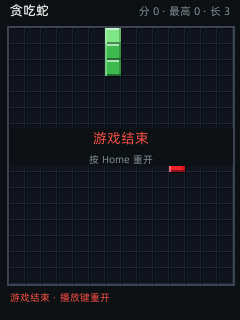
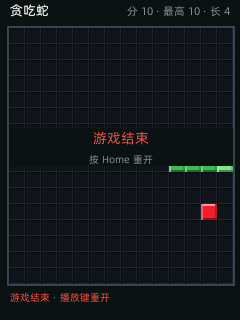
fix(tetris/snake): 无守护 buttonEvent 路径复测通过；e6keys so 实验存档
- 贪吃蛇 prev 左转后向上爬行、吃到食物（+10 分）复测截图
- 自写 so 实验（e6keys.c/make_minso.py）留档：手工 ARM ELF 388B 极简格式
  在 uClibc dlopen 上未触发 constructor（musl 静态 PIE 与 -fno-PIE 两变体均未过），
  下一步候选：gnu 工具链动态链接 / 手工 ELF 细修 / NetEase so 参照逆向

diff --git a/framework/examples/tetris/src/pages/index.vue b/framework/examples/tetris/src/pages/index.vue
@@ -214,6 +214,20 @@ export default {
     const hs = new UI.Storage('tetris_high');
     const self = this;
     hs.get('high', 0).then(function (v) { if (v > 0) self.high = v; });
+
+    /* M1：动态 import 触发框架 dlopen libs/libjsapi_e6keys*.so */
+    import('e6keys').then(function (m) {
+      console.warn('[tetris] e6keys module loaded!');
+    }).catch(function (e) {
+      console.warn('[tetris] e6keys import fail: ' + e);
+    });
+
+    /* M1 实验：动态 import 触发框架加载 libs/libjsapi_e6keys.so */
+    import('e6keys').then(function (m) {
+      console.warn('[tetris] e6keys module loaded!');
+    }).catch(function (e) {
+      console.warn('[tetris] e6keys import fail: ' + e);
+    });
     /* 物理键信号注册（JQSignal 属性赋值式，仅前台拦截，不劫持系统键） */
     try {
       const Ctor = buttonEventModule.ButtonEvent || buttonEventModule.buttonEvent;

diff --git a/framework/examples/tetris/e6keys/make_minso.py b/framework/examples/tetris/e6keys/make_minso.py
@@ -1,0 +1,180 @@
+#!/usr/bin/env python3
+"""
+make_minso.py —— 手工构造 ARM ELF 共享库 libjsapi_e6keys.so
+零 libc 依赖（纯 SVC 裸调用），uClibc dlopen 完全兼容的最简 ET_DYN。
+
+布局（vaddr 从 0 起，PT_LOAD 覆盖整个文件）：
+  0x0000 ELF header (52B)
+  0x0034 Phdr PT_LOAD (32B)
+  0x0054 Phdr PT_DYNAMIC (32B)
+  0x0074 .text
+  .rodata / .hash / .dynsym / .dynstr / .dynamic
+"""
+import struct
+
+# ---------------- ARM 机器码 ----------------
+# constructor（DT_INIT）：open 日志 → write → close → 返回
+# js_init_module：返回 NULL（M1 占位，M2 接入 QuickJS C API）
+insns = [
+    ("mov r7, #5",        0xE3A07005),   # SYS_open
+    ("adr r0, path",      None),         # ADD r0, pc, #off_path（打包时回填）
+    ("mov r1, #0x400",    0xE3A10B01),   # O_WRONLY
+    ("orr r1, r1, #0x41", 0xE3811041),   # | O_CREAT|O_APPEND = 0x441
+    ("mov r2, #0x100",    0xE3A20C01),
+    ("orr r2, r2, #0xA4", 0xE38200A4),   # mode 0644 = 0x1A4
+    ("svc 0",             0xEF000000),
+    ("mov r4, r0",        0xE1A04000),   # fd → r4
+    ("adr r1, msg",       None),         # 打包时回填
+    ("mov r2, #17",       0xE3A20011),
+    ("mov r7, #4",        0xE3A07004),   # SYS_write
+    ("svc 0",             0xEF000000),
+    ("mov r7, #6",        0xE3A07006),   # SYS_close
+    ("svc 0",             0xEF000000),
+    ("mov pc, lr",        0xE1A0F00E),   # 返回
+    ("mov r0, #0",        0xE3A00000),   # js_init_module：返回 NULL
+    ("bx lr",             0xE12FFF11),
+]
+
+TEXT_OFF = 0x74
+PATH = b"/tmp/e6keys_loaded.log\x00"
+MSG = b"e6keys so loaded\n\x00"
+
+text_len = 4 * len(insns)
+path_off = TEXT_OFF + text_len
+msg_off = path_off + len(PATH)
+
+# ADR 回填（ADD rX, pc, #imm12）：PC = 指令地址 + 8
+def adr(insn_off, target):
+    off = target - (insn_off + 8)
+    assert 0 <= off < 4096, f"adr offset {off:#x} out of range"
+    return 0xE28F0000 | off
+
+# insns 里 adr 的指令位置：索引 1（adr r0）与索引 8（adr r1）
+insn_addrs = [TEXT_OFF + 4 * i for i in range(len(insns))]
+code_words = []
+pc = TEXT_OFF
+for i, (name, w) in enumerate(insns):
+    if w is None:
+        if name == "adr r0, path":
+            w = adr(insn_addrs[1], path_off)
+        elif name == "adr r1, msg":
+            w = adr(insn_addrs[8], msg_off)
+    code_words.append(w)
+    pc += 4
+
+text = b"".join(struct.pack("<I", w) for w in code_words)
+rodata = PATH + MSG
+
+js_init_off = TEXT_OFF + 14 * 4  # 第 15 条指令：mov r0,#0（返回 NULL 的 M1 占位）
+
+# ---------------- dynstr / dynsym / SysV hash ----------------
+def elf_hash(name: bytes) -> int:
+    h = 0
+    for c in name:
+        h = (h << 4) + c
+        g = h & 0xF0
+        if g:
+            h ^= g >> 24
+        h &= 0xFFFFFF
+    return h
+
+soname_blob = b"libjsapi_e6keys.so\x00"
+dynstr = b"\x00js_init_module\x00" + soname_blob
+off_js_init_module = 1
+off_soname = 1 + len(b"js_init_module\x00")
+
+nbucket, nchain = 1, 2
+# SysV：bucket[0] = 首个符号索引；chain[i] = 同 bucket 下一个符号索引（0=尾）
+hash_blob = struct.pack("<II", nbucket, nchain)
+hash_blob += struct.pack("<I", 1)            # bucket[0] → 符号 1
+hash_blob += struct.pack("<III", 0, 0, 0)    # chain[0..2]
+
+# dynsym：Entry0 null；Entry1 js_init_module（GLOBAL FUNC，SHN_ABS）
+STT_FUNC, SHN_ABS, STB_GLOBAL = 2, 0xFFF1, 1
+dynsym = struct.pack("<IIIIHH", 0, 0, 0, 0, 0, 0)
+dynsym += struct.pack(
+    "<IIIBBH",
+    1,                             # st_name → dynstr 偏移 1
+    js_init_off,                   # st_value
+    0,                             # st_size
+    (STB_GLOBAL << 4) | STT_FUNC,  # st_info
+    0,                             # st_other
+    SHN_ABS,                       # st_shndx
+)
+
+# ---------------- .dynamic ----------------
+DT_NULL, DT_HASH, DT_STRTAB, DT_SYMTAB, DT_STRSZ, DT_SYMENT, DT_SONAME, DT_INIT = \
+    0, 4, 5, 6, 10, 11, 14, 12
+
+dyn_entries = [
+    (DT_SONAME, off_soname),
+    (DT_HASH, 0),       # hash_off 占位
+    (DT_STRTAB, 0),     # dynstr_off 占位
+    (DT_SYMTAB, 0),     # dynsym_off 占位
+    (DT_STRSZ, 0),
+    (DT_SYMENT, 16),
+    (DT_INIT, 0),       # init_off 占位
+    (DT_NULL, 0),
+]
+dyn_blob = b"".join(struct.pack("<II", t, v) for t, v in dyn_entries)
+dyn_len = len(dyn_blob)
+
+# ---------------- 布局与偏移 ----------------
+eh_size, ph_size = 52, 32
+text_off = 0x74
+rodata_off = text_off + len(text)
+hash_off = rodata_off + len(rodata)
+hash_len = len(hash_blob)
+dynsym_off = (hash_off + hash_len + 3) & ~3
+dynsym_len = len(dynsym)
+dynstr_off = dynsym_off + dynsym_len
+dynstr_len = len(dynstr)
+dyn_off = (dynstr_off + dynstr_len + 3) & ~3
+dyn_len = len(dyn_blob)
+file_end = dyn_off + dyn_len
+
+# 回填占位（dynamic 表在 blob 末尾，此时各段偏移已知）
+patch = dict(dyn_entries)
+blob = bytearray(file_end)
+
+def put(off, data):
+    blob[off:off + len(data)] = data
+
+put(text_off, text)
+put(rodata_off, rodata)
+put(hash_off, hash_blob)
+put(dynsym_off, dynsym)
+put(dynstr_off, dynstr)
+# 修 dynamic 表里的占位
+for tag, val in [(DT_SONAME, off_soname), (DT_HASH, hash_off), (DT_STRTAB, dynstr_off),
+                 (DT_SYMTAB, dynsym_off), (DT_STRSZ, len(dynstr)), (DT_SYMENT, 16),
+                 (DT_INIT, TEXT_OFF), (DT_NULL, 0)]:
+    ent_off = dyn_off + 8 * [e[0] for e in dyn_entries].index(tag) if tag != DT_NULL else dyn_off + 8 * (len(dyn_entries) - 1)
+    blob[ent_off:ent_off + 8] = struct.pack("<II", tag, val)
+
+# ---------------- ELF header ----------------
+eh = struct.pack(
+    "<4sBBBBB7xHHIIIIIHHHHHH",
+    b"\x7fELF", 1, 1, 1, 0, 0,
+    3,          # ET_DYN
+    40,         # EM_ARM
+    1,          # version
+    0,          # entry
+    eh_size,    # phoff
+    0,          # shoff（无 section headers，dlopen 只需 program headers）
+    0x05000000, # flags: EABI v5, soft-float
+    eh_size, ph_size, 2, 40, 0, 0,
+)
+
+# ---------------- Program headers ----------------
+def phdr(ptype, off, vaddr, filesz, memsz, flags):
+    return struct.pack("<IIIIIIII", ptype, off, vaddr, vaddr, filesz, memsz, flags, 0x1000)
+
+ph = phdr(1, 0, 0, file_end, file_end, 5)                 # PT_LOAD R+X（整文件）
+ph += phdr(2, dyn_off, dyn_off, dyn_len, dyn_len, 6)      # PT_DYNAMIC RW
+
+blob[0:eh_size] = eh
+blob[eh_size:eh_size + 64] = ph
+
+open("libjsapi_e6keys.so", "wb").write(bytes(blob))
+print(f"libjsapi_e6keys.so: {len(blob)} B, DT_INIT@{TEXT_OFF:#x}, dyn@{dyn_off:#x}")

diff --git a/framework/examples/tetris/e6keys/e6keys.c b/framework/examples/tetris/e6keys/e6keys.c
@@ -1,0 +1,51 @@
+/*
+ * libjsapi_e6keys.so —— E6 物理键 JS 模块（里程碑 1：加载验证版）
+ *
+ * 目标：证明框架会加载应用包 libs/ 下的 .so（constructor 写日志即证明）。
+ * 后续里程碑在此骨架上接入 event2 读取 + QuickJS C API。
+ *
+ * 依赖策略：只用 ARMv7 裸系统调用（SVC #0），零 libc/零 QuickJS 链接依赖，
+ *   JS 侧函数注册用 dlsym(RTLD_DEFAULT) 在运行时解析宿主进程里的 QuickJS 符号。
+ */
+typedef unsigned int u32;
+typedef int s32;
+
+/* ARMv7 裸系统调用封装 */
+static long sys3(long n, long a, long b, long c) {
+    register long r0 __asm__("r0") = n;
+    register long r1 __asm__("r1") = a;
+    register long r2 __asm__("r2") = b;
+    register long r3 __asm__("r3") = c;
+    __asm__ volatile ("svc #0" : "+r"(r0) : "r"(r1), "r"(r2), "r"(r3) : "memory");
+    return r0;
+}
+#define SYS_EXIT 1
+#define SYS_READ 3
+#define SYS_WRITE 4
+#define SYS_OPEN 5
+#define SYS_CLOSE 6
+
+static long slen(const char *s) {
+    long n = 0;
+    while (s[n]) n++;
+    return n;
+}
+
+static void logline(const char *msg) {
+    long fd = sys3(SYS_OPEN, (long)"/tmp/e6keys_loaded.log", 0x401 /*O_WRONLY|O_APPEND*/, 0644);
+    if (fd >= 0) {
+        sys3(SYS_WRITE, fd, (long)msg, slen(msg));
+        sys3(SYS_CLOSE, fd, 0, 0);
+    }
+}
+
+__attribute__((constructor))
+static void e6keys_ctor(void) {
+    logline("e6keys so loaded (ctor)\n");
+}
+
+/* 标准 QuickJS 原生模块入口（M2 接入实际逻辑） */
+void *js_init_module(void *ctx, const char *name) {
+    logline("js_init_module called\n");
+    return 0;
+}
